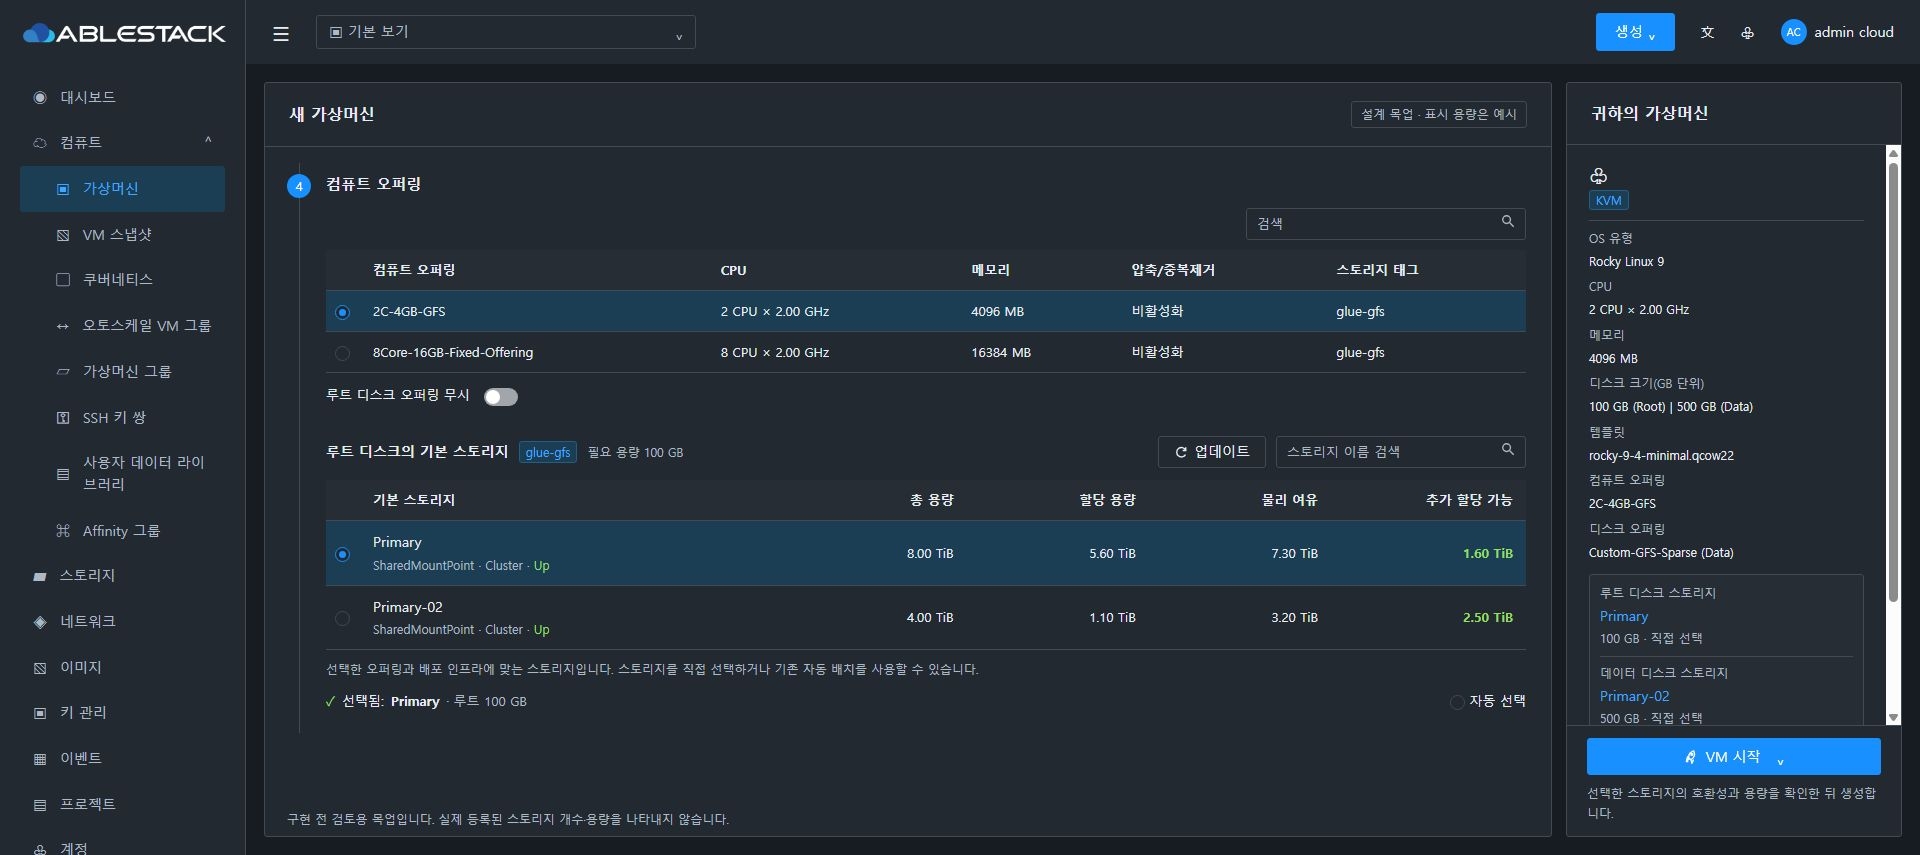
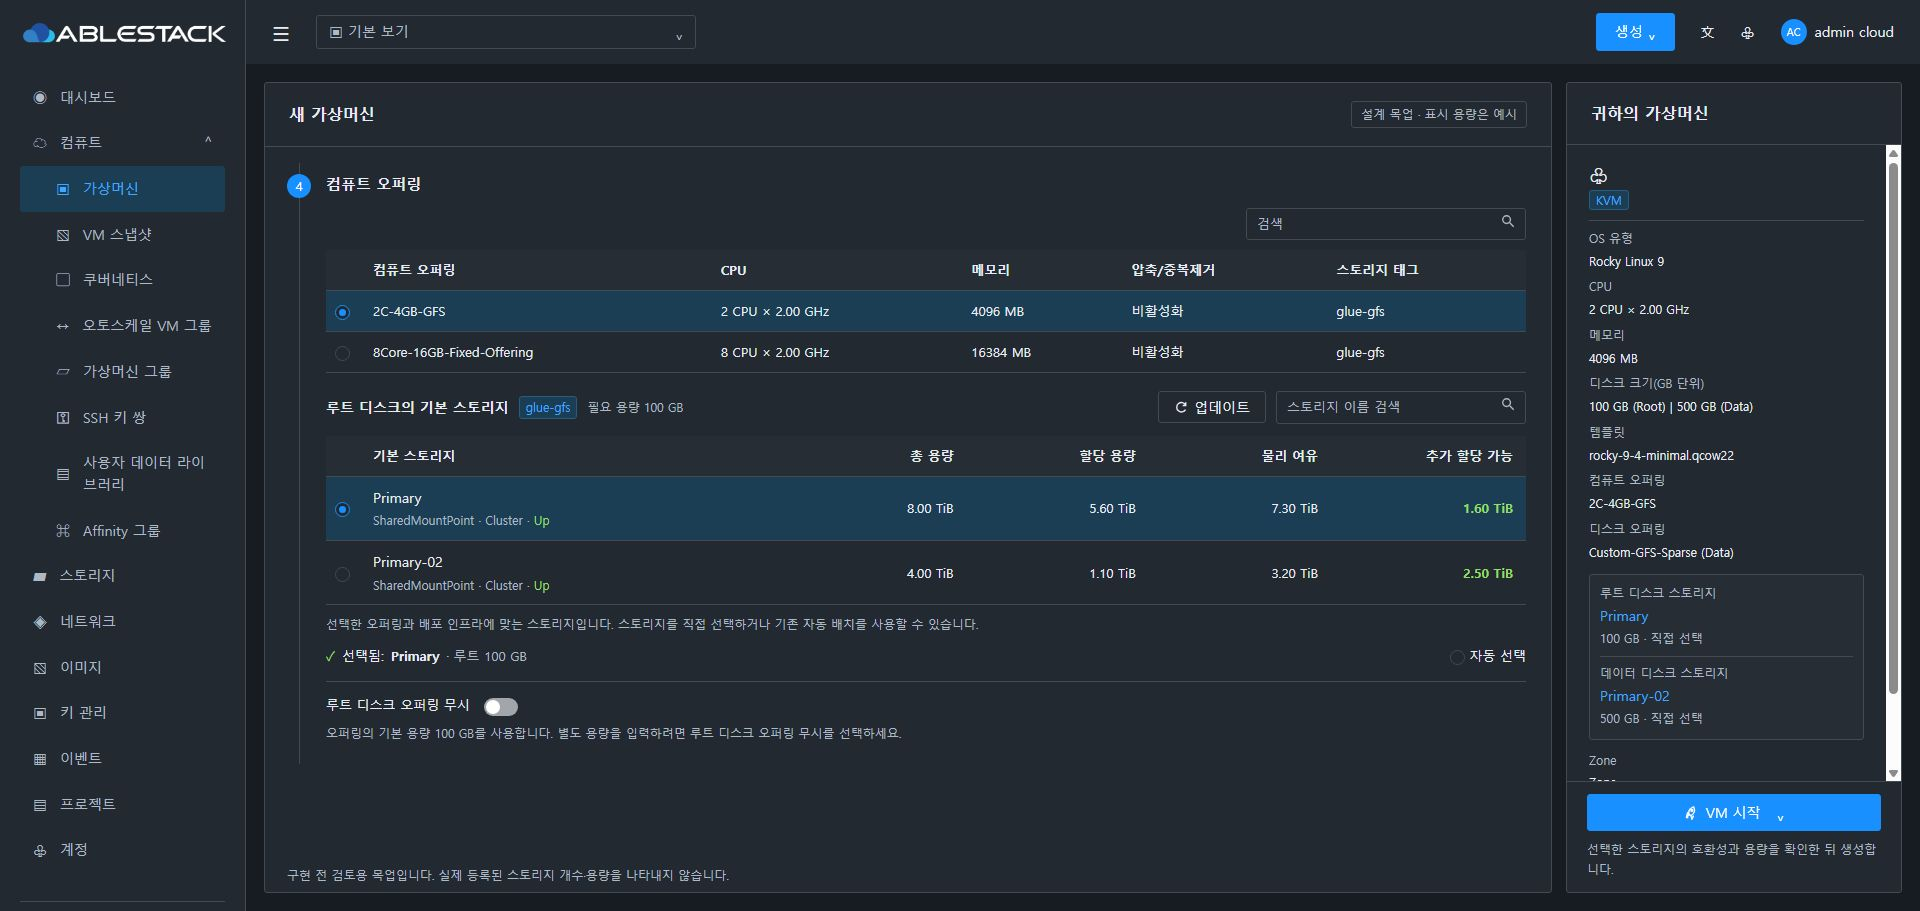
문서: 루트 스토리지 선택을 용량 변경보다 앞에 배치

diff --git a/docs/design/vm-create-storage-selection-20261002/mockup.html b/docs/design/vm-create-storage-selection-20261002/mockup.html
@@ -67,6 +67,15 @@ body.dataview td{padding-top:8px;padding-bottom:8px}body.dataview .storage-title
 .states h2{font-size:17px;margin:0 0 8px}.states>p{margin:0 0 12px}.states .case{padding:13px}.states .case h3{font-size:14px;margin:0 0 10px}.states .empty{padding:14px 12px}.states .empty .symbol{font-size:21px;margin-bottom:5px}.states .alert{padding:9px 12px;font-size:12px}.states .alert span{margin-top:3px}.states .blank-controls{margin-top:10px}.states td,.states th{padding:7px 11px}.states .capacity-help{margin-top:12px;padding:9px 12px}
 
 .states{padding:14px 24px}.states-grid{gap:12px}.states .empty{padding:8px 12px}.states>p{margin-bottom:8px}.states .storage-title{margin-bottom:8px}.states .case h3{margin-bottom:8px}
+
+.root-override{border-top:1px solid var(--border);margin-top:15px;padding-top:3px}
+.root-override .caps-row{padding:10px 0 4px}.root-override .hint{margin-top:4px}
+.root-size,.override-manual{display:none}
+body.rootmanual .root-size{display:flex;margin:11px 0}
+body.rootmanual .override-manual{display:block}
+body.rootmanual .override-default{display:none}
+body.rootmanual .root-override .switch{background:#1890ff}
+body.rootmanual .root-override .switch:before{left:18px}
 </style></head><body>
 <svg style="position:absolute;width:0;height:0" aria-hidden="true"><defs>
 <symbol id="reload" viewBox="0 0 16 16"><path d="M13.3 5.7A5.4 5.4 0 1 0 13.2 11M13.4 2.7v3.5h-3.5"/></symbol>
@@ -86,14 +95,20 @@ body.dataview td{padding-top:8px;padding-bottom:8px}body.dataview .storage-title
 <table><thead><tr><th class="select-col"></th><th>컴퓨트 오퍼링</th><th>CPU</th><th>메모리</th><th>압축/중복제거</th><th>스토리지 태그</th></tr></thead><tbody>
 <tr class="selected"><td class="select-col"><span class="radio checked"></span></td><td>2C-4GB-GFS</td><td>2 CPU × 2.00 GHz</td><td>4096 MB</td><td>비활성화</td><td>glue-gfs</td></tr>
 <tr><td class="select-col"><span class="radio"></span></td><td>8Core-16GB-Fixed-Offering</td><td>8 CPU × 2.00 GHz</td><td>16384 MB</td><td>비활성화</td><td>glue-gfs</td></tr></tbody></table>
-<div class="caps-row"><span>루트 디스크 오퍼링 무시 <span class="switch"></span></span></div>
-<div class="storage-title"><strong>루트 디스크의 기본 스토리지</strong><span class="tag">glue-gfs</span><span class="require">필요 용량 100 GB</span><div class="tools"><button class="plain-button update"><svg class="ico"><use href="#reload"/></svg>업데이트</button><div class="search">스토리지 이름 검색 <svg class="ico"><use href="#search"/></svg></div></div></div>
+<div class="storage-title"><strong>루트 디스크의 기본 스토리지</strong><span class="tag">glue-gfs</span><span class="require">필요 용량 <span class="root-size-value">100</span> GB</span><div class="tools"><button class="plain-button update"><svg class="ico"><use href="#reload"/></svg>업데이트</button><div class="search">스토리지 이름 검색 <svg class="ico"><use href="#search"/></svg></div></div></div>
 <table class="pool-table"><thead><tr><th class="select-col"></th><th>기본 스토리지</th><th>총 용량</th><th>할당 용량</th><th>물리 여유</th><th>추가 할당 가능</th></tr></thead><tbody>
 <tr class="selected"><td class="select-col"><span class="radio checked"></span></td><td><span class="pool-name">Primary</span><span class="subline">SharedMountPoint · Cluster · <span class="status">Up</span></span></td><td>8.00 TiB</td><td>5.60 TiB</td><td>7.30 TiB</td><td><span class="availability">1.60 TiB</span></td></tr>
 <tr><td class="select-col"><span class="radio"></span></td><td><span class="pool-name">Primary-02</span><span class="subline">SharedMountPoint · Cluster · <span class="status">Up</span></span></td><td>4.00 TiB</td><td>1.10 TiB</td><td>3.20 TiB</td><td><span class="availability">2.50 TiB</span></td></tr>
 </tbody></table>
 <p class="hint">선택한 오퍼링과 배포 인프라에 맞는 스토리지입니다. 스토리지를 직접 선택하거나 기존 자동 배치를 사용할 수 있습니다.</p>
-<div class="summary-choice"><span class="check">✓</span> 선택됨: <strong>Primary</strong><span class="dim">· 루트 100 GB</span><span style="margin-left:auto"><span class="radio"></span> 자동 선택</span></div>
+<div class="summary-choice"><span class="check">✓</span> 선택됨: <strong>Primary</strong><span class="dim">· 루트 <span class="root-size-value">100</span> GB</span><span style="margin-left:auto"><span class="radio"></span> 자동 선택</span></div>
+
+<div class="root-override">
+<div class="caps-row"><span>루트 디스크 오퍼링 무시 <span class="switch"></span></span></div>
+<p class="hint override-default">오퍼링의 기본 용량 100 GB를 사용합니다. 별도 용량을 입력하려면 루트 디스크 오퍼링 무시를 선택하세요.</p>
+<div class="sizebox root-size"><span>루트 디스크 크기(GB 단위)</span><span class="number-field"><span>500</span><span class="dim">⌃<br>⌄</span></span><span>GB</span></div>
+<p class="hint override-manual">오퍼링의 기본 용량 대신 입력한 용량을 사용합니다. 선택한 스토리지의 용량과 호환성을 다시 확인합니다.</p>
+</div>
 </section>
 <section class="step" id="data"><span class="step-num">5</span><h2 class="step-title">데이터 디스크</h2>
 <div class="offerbar"><div class="search">검색 <svg class="ico"><use href="#search"/></svg></div></div>
@@ -121,11 +136,15 @@ body.dataview td{padding-top:8px;padding-bottom:8px}body.dataview .storage-title
 </div><div class="capacity-help"><span class="sym">ⓘ</span><span>최종 생성 시 서버에서 선택한 UUID·오퍼링·배포 인프라·전체 디스크의 용량을 다시 검증합니다. 지정한 스토리지에 생성할 수 없으면 변경되지 않은 선택을 유지하고 원인을 표시합니다.</span></div></div>
 <div class="footer-note">구현 전 검토용 목업입니다. 실제 등록된 스토리지 개수·용량을 나타내지 않습니다.</div>
 </main><aside class="panel summary normal-block"><div class="panel-title">귀하의 가상머신</div><div class="summary-inner"><div class="os-icon">♧</div><span class="tag">KVM</span><hr>
-<div class="line"><span class="label">OS 유형</span><span class="val">Rocky Linux 9</span></div><div class="line"><span class="label">CPU</span><span class="val">2 CPU × 2.00 GHz</span></div><div class="line"><span class="label">메모리</span><span class="val">4096 MB</span></div><div class="line"><span class="label">디스크 크기(GB 단위)</span><span class="val">100 GB (Root) | 500 GB (Data)</span></div><div class="line"><span class="label">템플릿</span><span class="val">rocky-9-4-minimal.qcow22</span></div><div class="line"><span class="label">컴퓨트 오퍼링</span><span class="val">2C-4GB-GFS</span></div><div class="line"><span class="label">디스크 오퍼링</span><span class="val">Custom-GFS-Sparse (Data)</span></div>
-<div class="storage-box"><div class="entry"><span class="label">루트 디스크 스토리지</span><span class="name">Primary</span><span class="desc">100 GB · 직접 선택</span></div><div class="entry"><span class="label">데이터 디스크 스토리지</span><span class="name">Primary-02</span><span class="desc">500 GB · 직접 선택</span></div></div>
+<div class="line"><span class="label">OS 유형</span><span class="val">Rocky Linux 9</span></div><div class="line"><span class="label">CPU</span><span class="val">2 CPU × 2.00 GHz</span></div><div class="line"><span class="label">메모리</span><span class="val">4096 MB</span></div><div class="line"><span class="label">디스크 크기(GB 단위)</span><span class="val"><span class="root-size-value">100</span> GB (Root) | 500 GB (Data)</span></div><div class="line"><span class="label">템플릿</span><span class="val">rocky-9-4-minimal.qcow22</span></div><div class="line"><span class="label">컴퓨트 오퍼링</span><span class="val">2C-4GB-GFS</span></div><div class="line"><span class="label">디스크 오퍼링</span><span class="val">Custom-GFS-Sparse (Data)</span></div>
+<div class="storage-box"><div class="entry"><span class="label">루트 디스크 스토리지</span><span class="name">Primary</span><span class="desc"><span class="root-size-value">100</span> GB · 직접 선택</span></div><div class="entry"><span class="label">데이터 디스크 스토리지</span><span class="name">Primary-02</span><span class="desc">500 GB · 직접 선택</span></div></div>
 <div class="line"><span class="label">Zone</span><span class="val">Zone</span></div><div class="line"><span class="label">부팅 유형 / 부팅 모드</span><span class="val">BIOS / LEGACY</span></div>
 </div><div class="summary-actions"><button class="blue-button start-button"><svg class="ico"><use href="#rocket"/></svg>VM 시작<span style="margin-left:8px">⌄</span></button><p class="summary-note">선택한 스토리지의 호환성과 용량을 확인한 뒤 생성합니다.</p>
 </div></aside></div></div></div>
 <script>
[1 lines of base64/hex data omitted]
+
+const manualRoot=q.get('override')==='on';
+document.body.classList.toggle('rootmanual',manualRoot);
+document.querySelectorAll('.root-size-value').forEach(el=>el.textContent=manualRoot?'500':'100');
 </script></body></html>

diff --git a/docs/design/vm-create-storage-selection-20261002/README.md b/docs/design/vm-create-storage-selection-20261002/README.md
@@ -45,12 +45,21 @@ under the License.
 
 ## 화면 개선안
 
-1. 컴퓨트 오퍼링/유효 루트 디스크 오퍼링 아래에 **루트 디스크의 기본 스토리지**를 배치한다. 루트 오퍼링 무시를 사용하면 변경된 오퍼링으로 다시 조회한다.
+1. **컴퓨트 오퍼링 → 루트 디스크의 기본 스토리지 → 루트 디스크 오퍼링 무시·별도 용량 입력** 순서로 배치한다. 먼저 기본 용량을 기준으로 스토리지를 선택한다. 다른 용량을 원하는 경우에만 아래의 무시 옵션을 켜고 루트 크기를 입력한다. 무시 옵션이 꺼져 있으면 오퍼링 기본 용량을 사용하고 크기 입력을 숨긴다.
 2. 데이터 디스크 오퍼링과 크기 아래에 **데이터 디스크의 기본 스토리지**를 배치한다. 데이터 없음이면 숨기고, 여러 데이터 디스크는 각 디스크에서 선택한다.
 3. 기존 표·라디오 선택과 상단 도구 모음을 사용한다. **업데이트 아이콘 + 업데이트**, 이름 검색을 제공한다. 버튼 모양과 주 액션인 우측 파란 VM 시작 버튼을 유지한다.
 4. 우측 VM 요약에 루트/데이터별 스토리지 이름, 크기, 직접/자동 선택 여부를 표시한다. 요약이 길면 내용 영역을 스크롤하고 생성 버튼을 같은 요약 하단에 유지한다.
 5. 기존 자동 배치를 기본값으로 보존한다. 직접 선택한 풀은 최초 생성/배치의 필수 조건이며 불가능하면 이유를 표시한다.
 6. 조회 중 기존 표/선택을 유지하고 바뀐 행만 갱신한다. 화면 전체를 비우거나 최초 조회 완료 전에 호환 불가 경고를 표시하지 않는다.
+
+### 루트 디스크 선택 순서와 갱신
+
+1. 컴퓨트 오퍼링을 선택한다.
+2. 오퍼링의 기본 루트 용량으로 배포 가능한 기본 스토리지를 조회하고 선택한다.
+3. 기본 용량을 사용하면 그대로 진행한다. 별도 용량을 원하면 스토리지 선택 아래의 **루트 디스크 오퍼링 무시**를 켜고 용량을 입력한다.
+4. 입력한 루트 용량을 필요 용량·우측 요약·생성 요청에 반영하고 선택한 스토리지의 용량/호환성을 다시 검증한다. 여전히 유효하면 선택을 유지하며, 불가능하면 이유와 재선택 요구를 표시한다. 다른 스토리지로 자동 대체하지 않는다.
+
+오퍼링 무시는 스토리지 선택을 초기화하는 동작이 아니다. 기본 용량을 따르지 않는 수동 크기 입력이며, 기존 템플릿 최소 크기·오퍼링 강제 정책 및 서버 허용 범위 등 배포 검증은 유지한다. 무시를 다시 끄면 기본 용량으로 복원한 뒤 같은 규칙으로 검증한다. 유효 루트 오퍼링/태그가 바뀌는 기존 경로에서도 선택한 풀의 유효성을 재평가한다.
 
 ### 용량 표시
 
@@ -99,6 +108,7 @@ under the License.
 - [ ] 호환 풀 두 개 이상에서 실제 루트/데이터 볼륨 pool ID와 호스트 디스크 경로가 선택한 풀과 일치함을 검증.
 - [ ] 태그 불일치, 다른 클러스터/로컬 조합, 용량 부족, 권한 위반, 점검/삭제 풀, 용량 경쟁, 동일 풀 합산 초과 거절 및 무통보 대체 배치 금지 검증.
 - [ ] 자동 선택, 템플릿/ISO, 루트 오퍼링 무시, 데이터 없음/여러 개, KMS, 사용자 지정 크기/IOPS, VM 여러 대, 생성만 하기→최초 시작 회귀 검증.
+- [ ] 컴퓨트 오퍼링→기본 스토리지→오퍼링 무시 순서, 무시 켜기/끄기와 수동 루트 용량 반영, 유효 스토리지 선택 유지 및 부족 시 재선택 안내 검증.
 - [ ] 조회 갱신 중 입력/선택 보존, 화면 깜빡임 없음, 선택 불가 사유, 업데이트 아이콘·문구 확인.
 
 전체 Cloud 빌드는 이번 설계 범위가 아니다. 구현 단계도 변경 모듈 빌드를 우선하고 전체 빌드는 별도 요청이 있을 때만 수행한다.
@@ -110,9 +120,10 @@ under the License.
 | 이미지 | 일반 모드 | 다크 모드 |
 | --- | --- | --- |
 | 루트 선택 | [이미지](images/root-storage-light.jpg) | [이미지](images/root-storage-dark.jpg) |
+| 루트 별도 용량 입력 | [이미지](images/root-storage-override-light.jpg) | [이미지](images/root-storage-override-dark.jpg) |
 | 데이터 선택/용량 부족 | [이미지](images/data-storage-light.jpg) | [이미지](images/data-storage-dark.jpg) |
 | 예외 상태 | [이미지](images/states-light.jpg) | [이미지](images/states-dark.jpg) |
 
 현재 화면: [current-ui.jpg](images/current-ui.jpg).
 
-정적 목업: [mockup.html](mockup.html). 로컬 HTTP 서버에서 ?theme=light&part=root, ?theme=dark&part=data, ?theme=dark&view=states로 확인한다. 서버/API 연결이나 VM 생성 동작은 없다.
+정적 목업: [mockup.html](mockup.html). 로컬 HTTP 서버에서 ?theme=light&part=root, ?theme=light&part=root&override=on, ?theme=dark&part=data, ?theme=dark&view=states로 확인한다. 서버/API 연결이나 VM 생성 동작은 없다.
